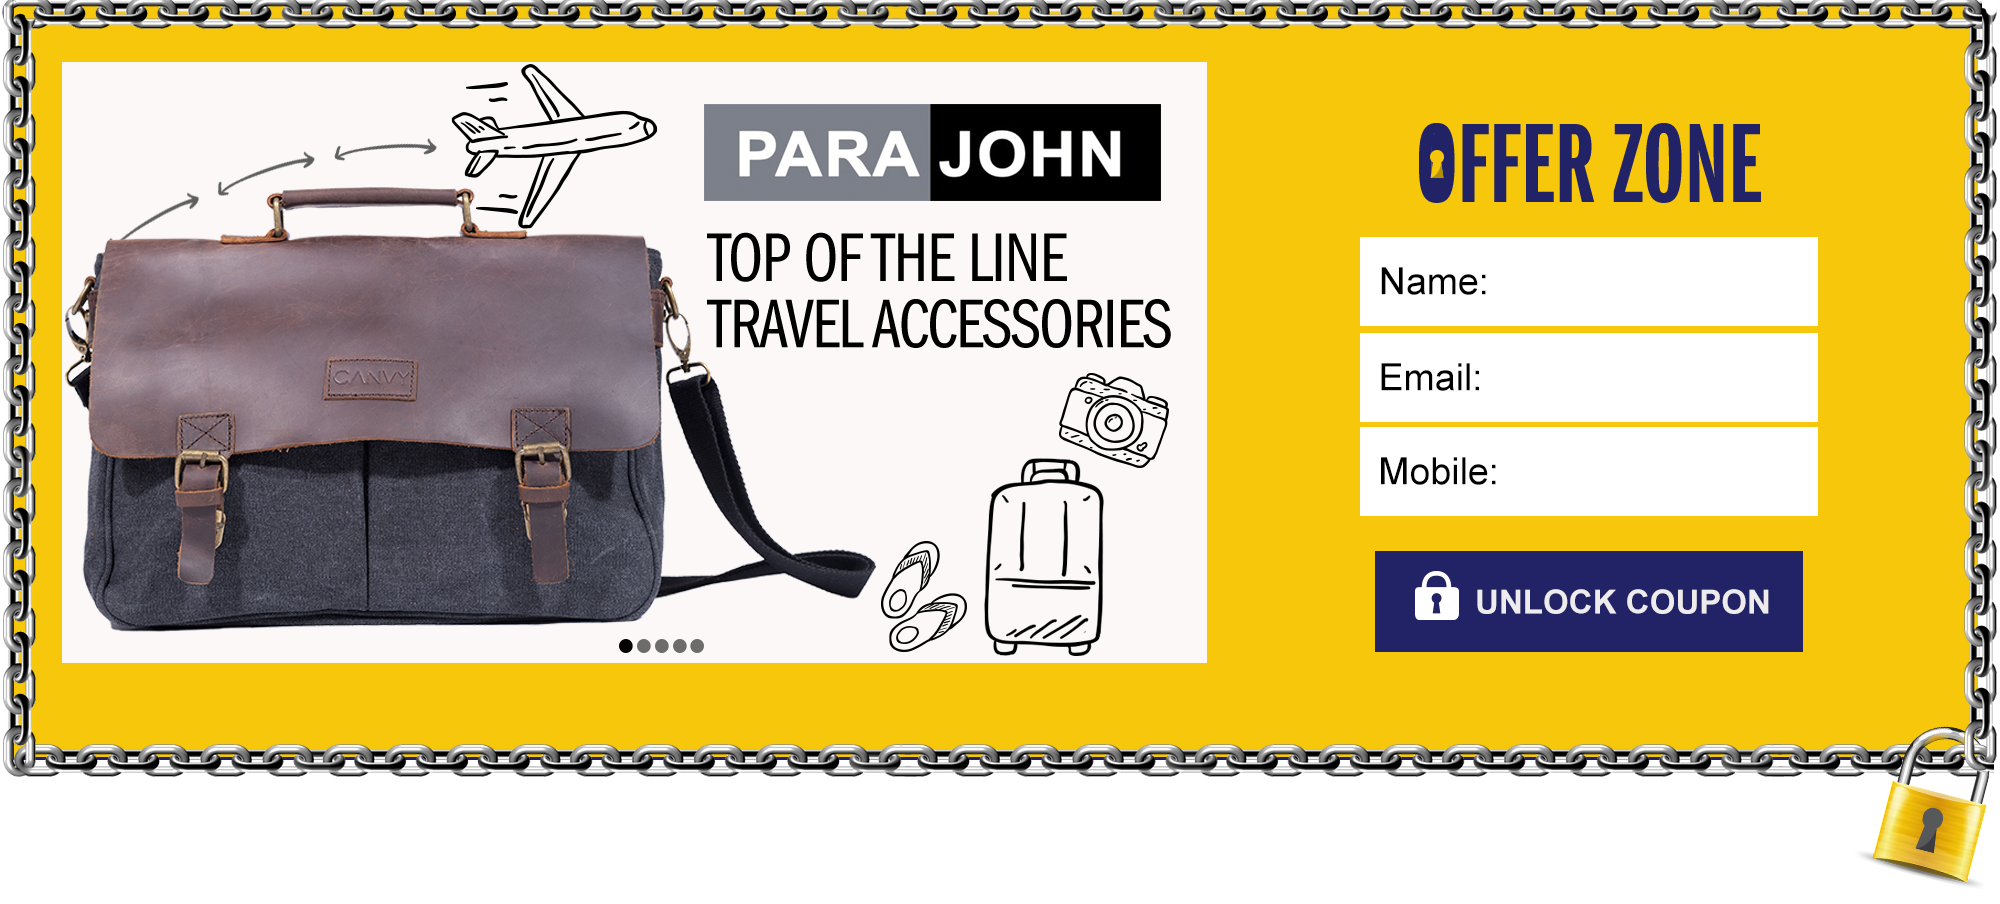
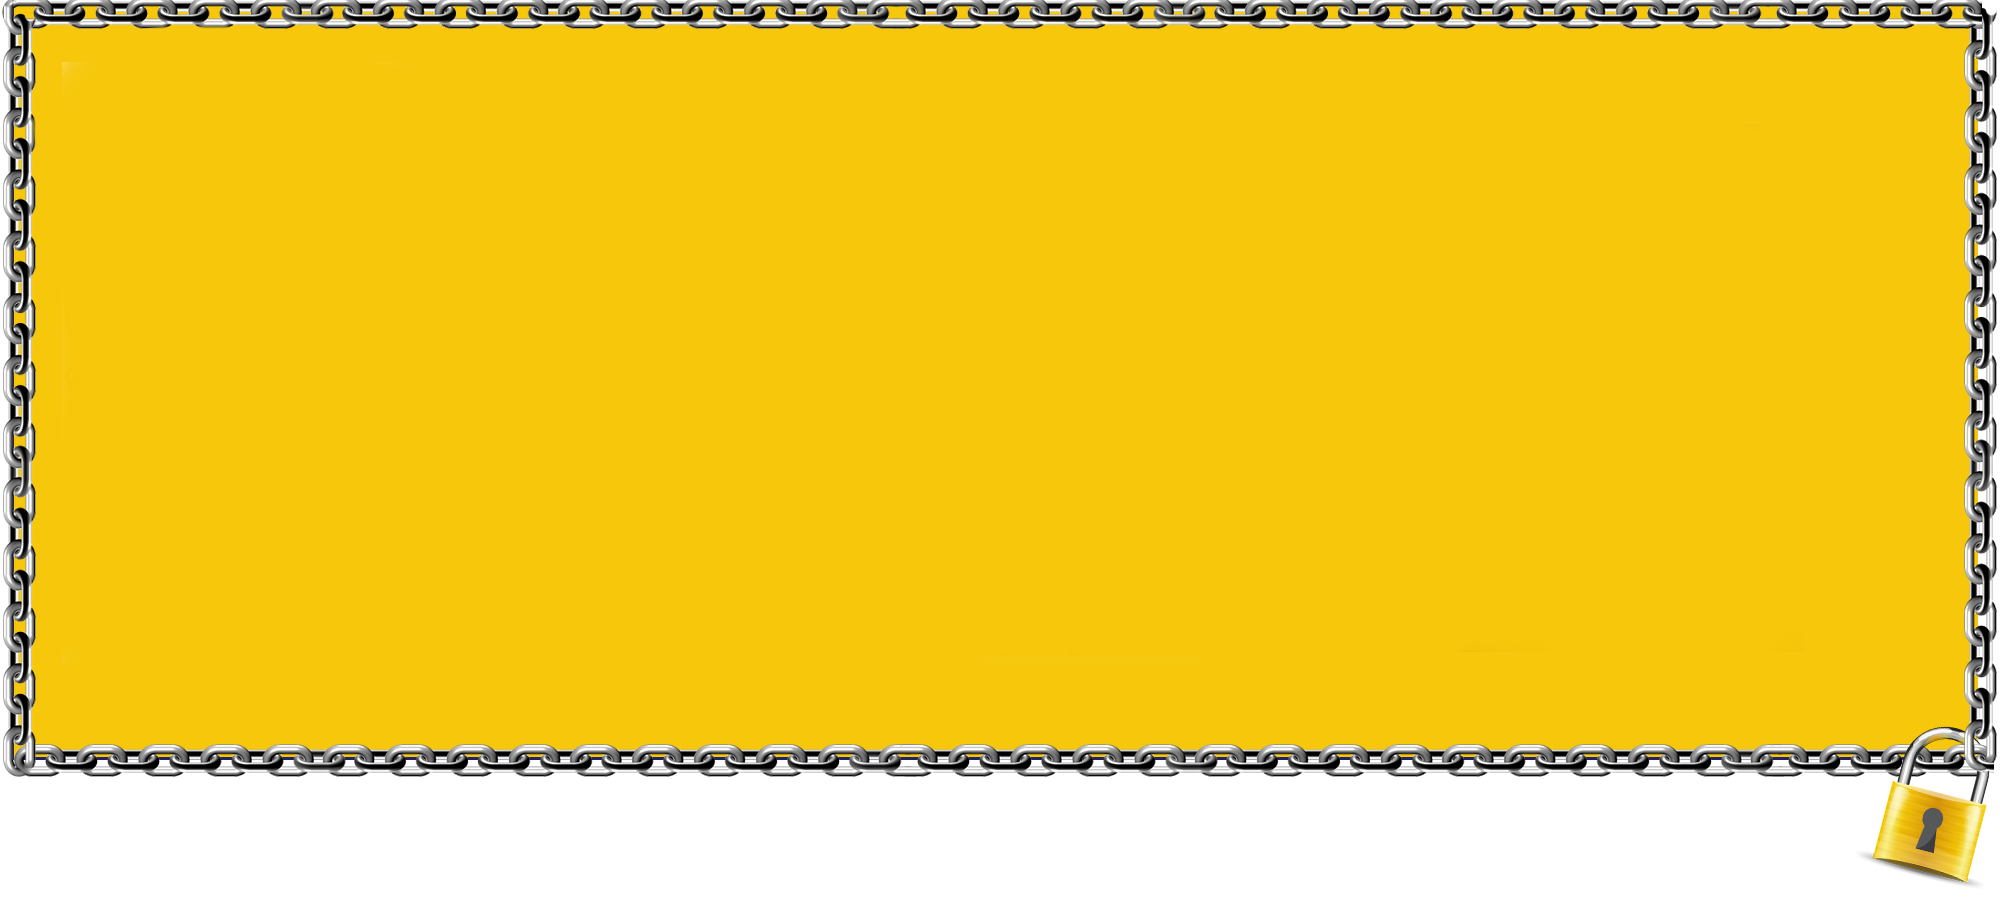
border chain

diff --git a/index.html b/index.html
@@ -34,73 +34,63 @@
 
   </div>
 
-        <div class="offer-banner" >
+    <img src="img/chain-up.png" style="max-width: 100%"/>
+    
+    <div class="offerzonebanner  row "  >
+          <div class=" col-sm-8">
             
-    <snap class="" data-toggle="modal" data-target="#Subscibe">
-      <img src="img/offer-banner.png" alt="">
-
-    </snap>
-        </div>
-
-
-
-
-
-
-
-
-
-  <!-- The Modal -->
-  <div class="modal fade" id="Subscibe">
-    <div class="modal-dialog">
-      <div class="modal-content">
-
-        <!-- Modal Header -->
-        <div class="modal-header">
-          <h4 class="modal-title">Sign up now and get a welcome bonus upto 50%</h4>
-          <button type="button" class="close" data-dismiss="modal">&times;</button>
-        </div>
-
-        <!-- Modal body -->
-        <div class="modal-body">
+          </div>  
+    
+     
+            
+        <div class="offerzone col-sm-3 ">
           <form>
 
-
+              <img src="img/offerzone.png"/>
             <div class="form-group">
-              <label for="exampleInputPassword1">Name:</label>
+              
               <input type="text" class="form-control" id="exampleInputPassword1" placeholder="Enter Name">
             </div>
             <div class="form-group">
 
-              <label for="exampleInputEmail1">Email address:</label>
+              
               <input type="email" class="form-control" id="exampleInputEmail1" aria-describedby="emailHelp" placeholder="Enter email">
 
             </div>
             <div class="form-group">
-              <label for="exampleInputPassword1">Mobile:</label>
+              
               <input type="text" class="form-control" id="exampleInputPassword1" placeholder="Enter Mobile">
             </div>
-            <div class="form-check">
-              <input type="checkbox" class="form-check-input" id="exampleCheck1">
-              <label class="form-check-label" for="exampleCheck1">Check me out</label>
-            </div>
-            <button type="submit" class="btn btn-primary">Submit</button>
+
+            <button type="submit" class="btn ">Unlock Coupon</button>
           </form>
         </div>
+        
 
-        <!-- Modal footer -->
-        <div class="modal-footer">
-          <button type="button" class="btn btn-danger" data-dismiss="modal">Close</button>
-        </div>
+        
 
-      </div>
     </div>
-  </div>
+    <img src="img/chain-down.png" style="max-width: 100%; margin-top:-5px"/>
+
+
+
+
+
+
+
+
+
+
+
+
+
+
+
 
 
 
   <div class="brands text-center">
-    <h5>Enter details above and avail additional 10% off on the existing offer Available on : </h5>
+    <h4>Enter details above and avail additional 10% off on the existing offer <small>Available on : </small></h4>
 
     <img src="img/amazon-logo.png" alt="">
     <img src="img/Flipkart_logo.png" alt="">
@@ -113,7 +103,7 @@
 
 
 
-  <div class="   text-center special ">
+  <div class=" container  text-center special ">
 
     <div>
       <h4>Home Improvement</h4>

diff --git a/css/style.css b/css/style.css
@@ -173,3 +173,45 @@ footer img{
 .lock {
 
 }
+
+.offerzone {
+    
+padding: 10px
+    
+}
+.offerzone img{
+    max-width: 100%;
+}
+
+
+.offer-banner {
+    background-position: center;
+    background-repeat: no-repeat;
+    background-size: contain;
+   
+}
+
+
+
+
+
+
+.offer-banner-bg img{
+    max-width: 100%;
+    position: absolute;
+    right:0;
+
+
+    z-index: -1;
+
+}
+
+
+
+
+
+
+
+.offerzonebanner {
+    background-color: #f6c70a;
+}

diff --git a/css/bootstrap.css b/css/bootstrap.css
@@ -2303,6 +2303,10 @@ textarea.form-control {
   line-height: 1.5;
   border-radius: 0.25rem;
   transition: color 0.15s ease-in-out, background-color 0.15s ease-in-out, border-color 0.15s ease-in-out, box-shadow 0.15s ease-in-out;
+    
+    
+  background-color: #222267;
+    color: white;
 }
 
 @media screen and (prefers-reduced-motion: reduce) {
